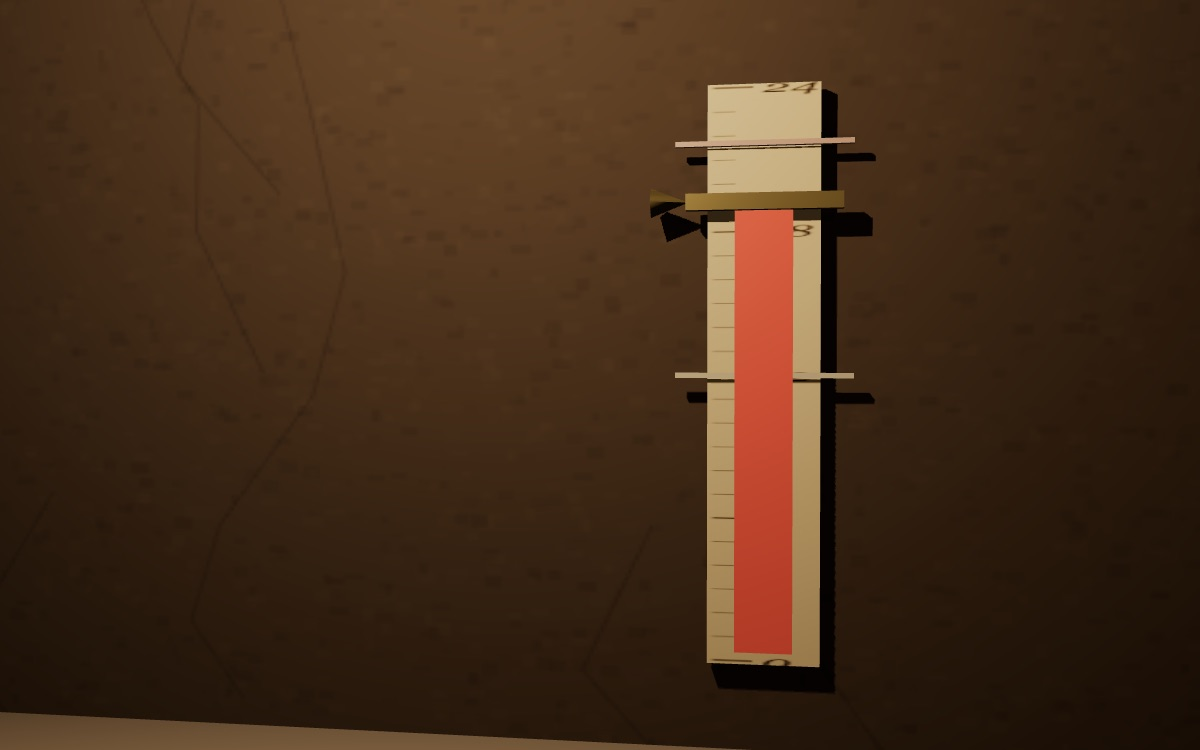
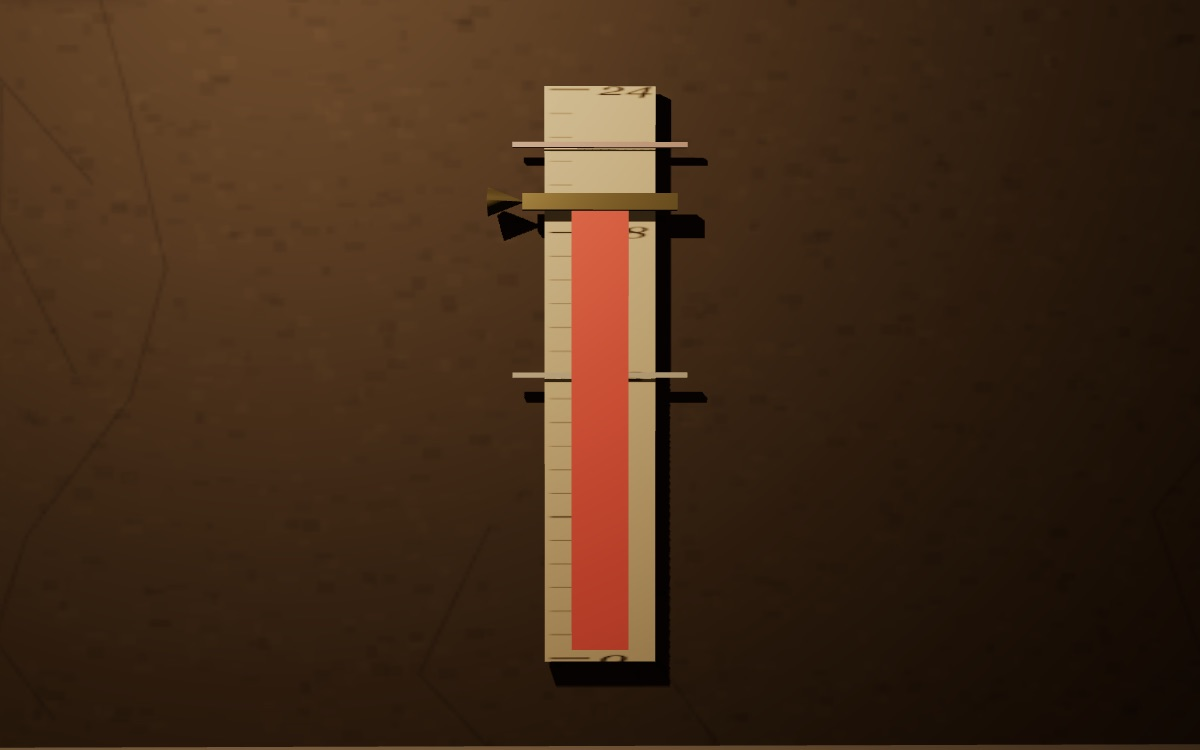
Glossaire : journee-de-travail réécrite selon la charte, direction artistique « la cloche et l'horloge »

diff --git a/glossaire/mondes/journee-de-travail/essai.html b/glossaire/mondes/journee-de-travail/essai.html
@@ -1,48 +1,93 @@
-<!-- L'ESSAI — le corps de /glossaire/journee-de-travail.
-     data-s="3" = Troisième section de Roy (ch. VII–XI), qui contient le
-     chapitre X, « La journée de travail ». -->
+<!-- L'ESSAI : le corps de /glossaire/journee-de-travail.
+     Réécrit en octobre 2026 selon glossaire/mondes/CHARTE.md.
+     data-s="3" = troisième section de Roy (ch. VII à XI), qui contient le
+     chapitre X ; data-s="4" = quatrième section (ch. XII à XV), pour la
+     phrase du chapitre XV sur l'intensification. Les citations sont
+     relevées dans le texte que la liseuse sert, et choisies pour ne pas
+     redoubler celles de /oeuvres/capital-1/chapitre-10 : la page de
+     chapitre porte le texte et sa construction, celle-ci le concept. -->
 
 <section class="nt-sec" data-etape="grandeur" id="grandeur">
-<h2>Une grandeur que rien ne fixe</h2>
-<p>Le chapitre X s'ouvre sur une constatation qui paraît anodine et qui va porter tout le chapitre&nbsp;: la journée de travail est une grandeur variable. Le contrat qui l'ouvre ne la fixe pas. Le capitaliste a acheté la <a href="/glossaire/force-de-travail">force de travail</a> à sa valeur journalière, et il a donc le droit de la faire travailler un jour&nbsp;; mais combien d'heures fait un jour&nbsp;? Rien dans l'échange ne le dit.</p>
-<p>Marx pose alors les deux bornes entre lesquelles cette grandeur peut se déplacer. La première est physique&nbsp;: il faut au travailleur le temps de dormir, de manger, de se laver, de se vêtir — un homme n'est pas disponible vingt-quatre heures. La seconde n'est pas de cette nature&nbsp;: <q data-s="3" data-q="La prolongation de la journée de travail rencontre des limites morales">la prolongation de la journée de travail rencontre des limites morales</q>, car <q data-s="3" data-q="Il faut au travailleur du temps pour satisfaire ses besoins intellectuels et sociaux">il faut au travailleur du temps pour satisfaire ses besoins intellectuels et sociaux</q>, dont le nombre et le caractère dépendent de l'état général de la civilisation.</p>
-<p>Il faut peser la conséquence, car elle commande tout le chapitre&nbsp;: ces bornes existent, mais elles ne fixent rien. <q data-s="3" data-q="Mais ces limites sont par elles-mêmes très élastiques et laissent la plus grande latitude">Mais ces limites sont par elles-mêmes très élastiques et laissent la plus grande latitude</q> — et Marx énumère aussitôt des journées de dix, douze, quatorze, seize et dix-huit heures. Le concept est donc celui d'une grandeur que l'économie ne détermine pas, et dont il faut chercher ailleurs ce qui la détermine.</p>
+<h2>Qu'est-ce qui fixe la longueur d'une journée de travail&nbsp;?</h2>
+<p class="nt-lead">Rien, dans l'échange. Une partie de la journée est fixée, celle où l'ouvrier reproduit la valeur de ses subsistances&nbsp;; la journée entière ne l'est pas.</p>
+<p>Le chapitre X part de ce que les chapitres précédents ont établi. Le capitaliste achète la <a href="/glossaire/force-de-travail">force de travail</a>, c'est-à-dire la capacité de travailler d'un homme, et il la paie à sa valeur. Cette valeur se mesure au temps qu'il faut pour produire ce que l'ouvrier consomme en un jour. Si ses subsistances coûtent six heures de travail, il doit travailler six heures pour en rendre l'équivalent&nbsp;: c'est le <a href="/glossaire/travail-necessaire">travail nécessaire</a>. Ce qu'il fait au-delà est du <a href="/glossaire/surtravail">surtravail</a>, que le capitaliste n'a pas payé. La première grandeur est donnée. La seconde dépend de l'heure à laquelle on s'arrête, et Marx résume la situation en une phrase sèche&nbsp;: <q data-s="3" data-q="La journée de travail est donc déterminable ; mais, par elle-même, elle est indéterminée">la journée de travail est donc déterminable&nbsp;; mais, par elle-même, elle est indéterminée</q>.</p>
+
+<div class="nt-ex">
+<p class="nt-ex-t">Un exemple</p>
+<p>Marx trace trois journées sur le même patron. Le travail nécessaire y vaut toujours six heures, et on le prolonge d'une heure, de trois, puis de six. On obtient des journées de sept, de neuf et de douze heures, et des taux de plus-value de 16&nbsp;2/3, de 50 et de 100&nbsp;%.</p>
+<p>Il retourne ensuite le calcul. Un taux de 100&nbsp;% dit seulement que le travail nécessaire et le surtravail sont égaux&nbsp;: il convient à une journée de huit heures comme à une journée de douze. Connaître le taux de l'exploitation ne donne donc pas la longueur du jour. Il faut la chercher ailleurs.</p>
+</div>
+
+<p>La journée a pourtant des bornes. Sa limite basse ne peut pas être atteinte, puisque le capital n'emploie personne pour le seul travail nécessaire. Sa limite haute est double. Elle est physique, d'abord&nbsp;: un homme doit dormir, manger, se vêtir. Elle est aussi sociale, car <q data-s="3" data-q="La prolongation de la journée de travail rencontre des limites morales">la prolongation de la journée de travail rencontre des limites morales</q>&nbsp;: <q data-s="3" data-q="Il faut au travailleur du temps pour satisfaire ses besoins intellectuels et sociaux">il faut au travailleur du temps pour satisfaire ses besoins intellectuels et sociaux</q>, dont l'étendue dépend de l'état de la civilisation. Ces bornes existent, et elles ne fixent presque rien&nbsp;: <q data-s="3" data-q="Mais ces limites sont par elles-mêmes très élastiques et laissent la plus grande latitude">ces limites sont par elles-mêmes très élastiques et laissent la plus grande latitude</q>. Marx relève autour de lui des journées de dix, douze, quatorze, seize et dix-huit heures.</p>
+<p>D'où la question qui ouvre le chapitre, et que le contrat ne règle pas&nbsp;: <q data-s="3" data-q="Mais qu’est‑ce qu’un jour de travail">mais qu’est-ce qu’un jour de travail</q>&nbsp;? Le capitaliste a payé la force de travail pour un jour. Il a acquis le droit de la faire travailler un jour, et l'on sait seulement que ce jour est plus court que les vingt-quatre heures du jour naturel. De combien, l'économie ne le dit pas.</p>
 </section>
 
 <section class="nt-sec" data-etape="antinomie" id="antinomie">
-<h2>La distinction qui fait le concept&nbsp;: deux droits, également fondés</h2>
-<p>Ici se joue le tour de force du chapitre, et il faut le suivre lentement parce qu'on le simplifie toujours. Le capitaliste, ayant acheté une marchandise, invoque son droit d'acheteur&nbsp;: il veut en tirer le plus grand usage possible, et prolonger la journée. Le travailleur, ayant vendu une marchandise, invoque son droit de vendeur&nbsp;: il veut que la consommation de sa force n'en détruise pas la source, et réclame une durée normale. Aucun des deux ne triche&nbsp;; aucun des deux n'a tort.</p>
-<blockquote data-s="3" data-q="Il y a donc ici une antinomie, droit contre droit, tous deux portent le sceau de la loi qui règle l’échange des marchandises"><p>Il y a donc ici une antinomie, droit contre droit, tous deux portent le sceau de la loi qui règle l’échange des marchandises. <q data-s="3" data-q="Entre deux droits égaux qui décide">Entre deux droits égaux qui décide</q>&nbsp;? La Force.</p></blockquote>
-<p>La portée de cette phrase est considérable, et elle est souvent affaiblie par la citation même qui l'isole. Marx ne dit pas que le droit serait une illusion ni que les contrats seraient truqués&nbsp;: il dit que la loi de l'échange, appliquée conséquemment, produit deux prétentions également légitimes et n'a aucun moyen de les départager. La force n'intervient donc pas contre le droit&nbsp;; elle intervient là où le droit, en toute rigueur, ne conclut pas.</p>
-<p>On tient là ce qui distingue ce chapitre de tout le reste du Livre&nbsp;I. Les autres établissent des lois — de la valeur, de la <a href="/glossaire/plus-value">plus-value</a>, de l'accumulation. Celui-ci établit qu'une grandeur décisive n'est réglée par aucune loi économique, et qu'elle est le produit d'un rapport de forces dont l'histoire seule rend compte.</p>
+<h2>Pourquoi l'échange ne peut-il pas trancher&nbsp;?</h2>
+<p class="nt-lead">Parce que l'acheteur et le vendeur de la force de travail invoquent chacun un droit que la loi de l'échange fonde également. Cette loi appuie les deux prétentions et n'a aucun moyen de les départager.</p>
+<p>Le capitaliste se conduit en acheteur ordinaire. Il a payé une marchandise et veut en tirer le plus grand usage possible, ce qui veut dire, ici, prolonger la journée autant qu'il le peut. Rien dans ce raisonnement ne déroge aux règles du marché. Marx lui oppose alors la voix du vendeur, et il la fait parler le même langage. L'ouvrier ne demande aucune faveur. Il rappelle qu'il doit pouvoir revendre demain, en aussi bon état, la marchandise qu'il a vendue aujourd'hui, et que l'acheteur qui l'épuise la vole&nbsp;: <q data-s="3" data-q="J’exige la journée de travail normal, parce que je veux la valeur de ma marchandise, comme tout autre vendeur">j’exige la journée de travail normal, parce que je veux la valeur de ma marchandise, comme tout autre vendeur</q>.</p>
+
+<div class="nt-ex">
+<p class="nt-ex-t">Le calcul du vendeur</p>
+<p>L'ouvrier de Marx fait ses comptes. Supposons qu'avec un travail raisonnable, sa force dure trente ans. Le salaire d'un jour paie alors une part sur trente fois trois cent soixante-cinq, soit 1/10&nbsp;950 de la valeur totale de cette force.</p>
+<p>Si l'acheteur l'use en dix ans, il continue de payer 1/10&nbsp;950 par jour, alors qu'il en consomme 1/3&nbsp;650. Il paie donc un tiers de ce qu'il prend chaque jour, et garde les deux autres. L'ouvrier le dit en une ligne&nbsp;: <q data-s="3" data-q="Tu payes une force de travail d’un jour quand tu en uses une de trois">tu payes une force de travail d’un jour quand tu en uses une de trois</q>. Son argument n'a rien de sentimental&nbsp;: il applique au contrat la règle que l'acheteur invoque.</p>
+</div>
+
+<p>Les ouvriers n'ont pas attendu Marx pour poser la question dans ces termes. En 1835, les charpentiers de Philadelphie font peindre sur leur bannière un compagnon qui montre à un autre l'horloge du clocher, et, sur un coffre, l'inscription « 6 to 6 »&nbsp;: de six heures à six heures, et pas au-delà. C'est la journée normale réclamée par ceux qui vendent leur force.</p>
+<div data-planche="horloge"></div>
+<p>Les deux droits se font face, et Marx en tire la phrase qui donne au chapitre sa portée&nbsp;:</p>
+<blockquote data-s="3" data-q="Il y a donc ici une antinomie, droit contre droit, tous deux portent le sceau de la loi qui règle l’échange des marchandises"><p>Il y a donc ici une antinomie, droit contre droit, tous deux portent le sceau de la loi qui règle l’échange des marchandises. Entre deux droits égaux qui décide&nbsp;? La Force.</p></blockquote>
+<p>Une antinomie est un conflit entre deux lois, ou deux thèses, également fondées. Personne ici ne triche, et personne n'a tort au regard de la loi du marché. Cette loi, suivie jusqu'au bout, produit deux prétentions légitimes et reste muette sur celle qui doit l'emporter. La force vient occuper la place que le droit laisse vide.</p>
 </section>
 
 <section class="nt-sec" data-etape="soif" id="soif">
-<h2>Le mécanisme&nbsp;: pourquoi le capital pousse toujours</h2>
-<p>Reste à comprendre pourquoi la pression s'exerce toujours dans le même sens. La réponse ne tient pas à la cupidité des personnes, et Marx prend soin de le dire&nbsp;: le capitaliste n'est ici que du capital personnifié, et ce qu'il poursuit, il le poursuit sous peine de disparaître. La formule qu'il emploie pour le dire est la plus célèbre du chapitre&nbsp;:</p>
+<h2>Pourquoi le capital pousse-t-il toujours vers une journée plus longue&nbsp;?</h2>
+<p class="nt-lead">Parce qu'il n'a pas de borne interne. Le capital ne se conserve qu'en s'accroissant, et il ne s'accroît qu'en absorbant du travail vivant&nbsp;: toute limite lui vient du dehors.</p>
+<p>Marx met d'emblée les personnes hors de cause. Il ne reproche pas au capitaliste sa cupidité&nbsp;: <q data-s="3" data-q="En tant que capitaliste, il n’est que capital personnifié">en tant que capitaliste, il n’est que capital personnifié</q>. Ce qu'il poursuit, c'est le mouvement même du capital, qui tend à produire le plus de plus-value possible. L'image qu'il emploie pour le dire est restée la plus citée du chapitre&nbsp;:</p>
 <blockquote data-s="3" data-q="Le capital est du travail mort, qui, semblable au vampire, ne s’anime qu’en suçant le travail vivant"><p>Le capital est du travail mort, qui, semblable au vampire, ne s’anime qu’en suçant le travail vivant, et sa vie est d’autant plus allègre qu’il en pompe davantage.</p></blockquote>
-<p>L'image est spectaculaire, et c'est peut-être ce qui lui nuit&nbsp;: on y voit une invective là où il y a une définition. Le capital est de la valeur qui ne se conserve qu'en s'accroissant, et il ne s'accroît que par du travail vivant&nbsp;; il n'a donc aucune raison interne de s'arrêter, et toute borne lui vient du dehors. C'est pourquoi la prolongation ne rencontre pas seulement les limites morales&nbsp;: <q data-s="3" data-q="le capital dépasse non seulement les limites morales, mais encore la limite physiologique extrême de la journée de travail">le capital dépasse non seulement les limites morales, mais encore la limite physiologique extrême de la journée de travail</q>.</p>
-<p>Marx détaille alors ce que cette usurpation prend, et l'énumération vaut mieux qu'un commentaire&nbsp;: le temps de la croissance et de l'entretien du corps, celui des repas incorporés au procès de production, et <q data-s="3" data-q="Il vole le temps qui devrait être employé à respirer l’air libre et à jouir de la lumière du soleil">le temps qui devrait être employé à respirer l'air libre et à jouir de la lumière du soleil</q>. Les rapports d'inspecteurs qui occupent une grande part du chapitre ne sont pas des annexes documentaires&nbsp;: ils sont la preuve que la limite physiologique elle-même a été franchie, et que rien dans le rapport ne l'interdisait.</p>
+<p>L'image définit un rapport, celui du <a href="/glossaire/travail-mort-et-vivant">travail mort au travail vivant</a>. Les machines, les bâtiments, les matières premières sont du travail passé, déjà accompli. Ils ne gardent leur valeur et ne l'augmentent qu'au contact d'un travail présent, et chaque heure de plus en ajoute. Un tel mouvement n'a aucune raison de s'arrêter de lui-même.</p>
+<p>C'est pourquoi la prolongation ne s'arrête pas aux bornes morales&nbsp;: <q data-s="3" data-q="le capital dépasse non seulement les limites morales, mais encore la limite physiologique extrême de la journée de travail">le capital dépasse non seulement les limites morales, mais encore la limite physiologique extrême de la journée de travail</q>. Marx dresse l'inventaire de ce qu'il prend. Il prend le temps de la croissance et de l'entretien du corps. <q data-s="3" data-q="Il vole le temps qui devrait être employé à respirer l’air libre et à jouir de la lumière du soleil">Il vole le temps qui devrait être employé à respirer l’air libre et à jouir de la lumière du soleil</q>. Il rogne les repas et les fait prendre au travail, si bien que l'ouvrier <q data-s="3" data-q="se voit fournir sa nourriture comme on fournit du charbon à la chaudière, de l’huile et du suif à la machine">se voit fournir sa nourriture comme on fournit du charbon à la chaudière, de l’huile et du suif à la machine</q>. Il réduit enfin le sommeil au minimum sans lequel le corps ne repartirait pas.</p>
+<p>Le bilan se lit sur la durée d'une vie. La production capitaliste, écrit Marx, <q data-s="3" data-q="Elle prolonge la période productive du travailleur pendant un certain laps de temps en abrégeant la durée de sa vie">prolonge la période productive du travailleur pendant un certain laps de temps en abrégeant la durée de sa vie</q>, comme un cultivateur pressé tire plus d'une terre en l'épuisant. On retrouve le calcul du vendeur, vu de l'autre côté&nbsp;: ce que l'acheteur gagne en heures, l'ouvrier le perd en années.</p>
 </section>
 
 <section class="nt-sec" data-etape="loi" id="loi">
-<h2>Ce que le concept ouvre&nbsp;: la loi comme résultat</h2>
-<p>De l'antinomie suit une conséquence que Marx tire explicitement, et qui donne au chapitre sa forme historique&nbsp;: si la force décide, alors la longueur de la journée est le résultat d'une lutte, et son histoire est celle de cette lutte. Le chapitre cesse alors d'être une déduction pour devenir un récit — celui des statuts anglais, des enquêtes, des fraudes de quelques minutes grignotées aux repas, et des lois de fabrique arrachées les unes après les autres.</p>
-<p>C'est ici que la journée de travail se distingue de tout ce que l'économie politique pouvait penser. Une limitation légale n'y apparaît pas comme une entrave à des lois naturelles, ni comme une faveur accordée par un législateur bienveillant&nbsp;: elle apparaît comme la forme que prend, dans le droit, un rapport de forces déjà établi ailleurs. La loi ne précède pas le mouvement, elle l'enregistre.</p>
-<p>Nous ajoutons que ce chapitre est le seul du Livre&nbsp;I où les travailleurs cessent d'être ceux à qui il arrive quelque chose pour devenir ceux qui font arriver quelque chose. Cela n'est pas un ornement rhétorique&nbsp;: c'est la conséquence directe de l'antinomie, puisqu'une question que le droit ne tranche pas ne peut être tranchée que par ceux qu'elle concerne.</p>
+<h2>Qui fixe finalement la limite de la journée&nbsp;?</h2>
+<p class="nt-lead">Une lutte entre deux classes, dont la loi enregistre le résultat. La journée normale sort d'un rapport de forces, et elle en garde la marque.</p>
+<p>Si la force décide entre deux droits égaux, l'histoire de la journée de travail est l'histoire de cette force. Marx le dit aussitôt après l'antinomie&nbsp;: la réglementation de la journée se présente <q data-s="3" data-q="comme une lutte séculaire pour les limites de la journée de travail">comme une lutte séculaire pour les limites de la journée de travail</q>, entre la classe capitaliste et la classe ouvrière. Le chapitre change alors de méthode. Une grandeur que la force décide ne se déduit pas&nbsp;; on ne peut que constater ce qui l'a fixée. D'où les rapports des inspecteurs de fabrique et le récit des <a href="/glossaire/legislation-de-fabrique">lois de fabrique</a> anglaises de 1833 à 1864, que <a href="/oeuvres/capital-1/chapitre-10">la page du chapitre X</a> parcourt partie par partie.</p>
+<p>La loi apparaît dans ce récit sous un jour inattendu pour l'économie politique. Elle vient après le mouvement et le consigne. La limitation légale de la journée est la forme que prend, dans le droit, un rapport de forces qui s'est d'abord établi hors du droit, entre les classes.</p>
+<p>La fin du chapitre revient sur le contrat du début et en tire la leçon. L'ouvrier s'était présenté au marché comme un vendeur libre en face d'un acheteur libre. L'affaire conclue, il découvre <q data-s="3" data-q="que le temps pour lequel il lui est permis de vendre sa force de travail est le temps pour lequel il est forcé de la vendre">que le temps pour lequel il lui est permis de vendre sa force de travail est le temps pour lequel il est forcé de la vendre</q>. Seul, il ne peut rien contre cette contrainte. Il faut que les ouvriers, ensemble, <q data-s="3" data-q="dressent une barrière infranchissable, un obstacle social">dressent une barrière infranchissable, un obstacle social</q>, qui les empêche de se vendre au-delà. La barre de fer de la scène, en bas de page, vient de cette phrase.</p>
+<p>Marx note que le mouvement passe l'Atlantique dans les mêmes années. En août 1866, un congrès ouvrier réuni à Baltimore réclame la journée de huit heures dans tous les États de l'Union. Au début de septembre, le congrès de l'Association internationale des travailleurs, à Genève, adopte une résolution que Marx reproduit&nbsp;: <q data-s="3" data-q="Nous proposons 8 heures pour limite légale de la journée de travail">nous proposons 8 heures pour limite légale de la journée de travail</q>. Nous retenons de ce chapitre que les travailleurs y paraissent comme ceux qui fixent une grandeur du système, et plus seulement comme ceux qui la subissent. Cela découle de l'antinomie&nbsp;: une question que le droit ne tranche pas revient à ceux qu'elle concerne.</p>
 </section>
 
 <section class="nt-sec" data-etape="apres" id="apres">
-<h2>Ce que la limitation change, et ce qu'elle ne change pas</h2>
-<p>Il serait pourtant faux de lire le chapitre comme s'il s'achevait sur une victoire. La limitation de la journée ferme une voie et en ouvre une autre, et c'est la raison pour laquelle le chapitre&nbsp;XII vient immédiatement après. Si l'on ne peut plus allonger la journée, il reste à raccourcir la portion qui rembourse la force de travail, en abaissant la valeur des subsistances par la hausse de la productivité&nbsp;: c'est le passage de la plus-value absolue à la <a href="/glossaire/plus-value">plus-value relative</a>.</p>
-<p>La conséquence mérite d'être formulée sans détour, car elle contrarie l'idée d'un progrès linéaire&nbsp;: la journée de dix heures n'a pas diminué l'exploitation, elle en a changé la méthode. Le taux de <a href="/glossaire/forme-salaire">plus-value</a> peut fort bien s'élever pendant que la journée raccourcit, si le travail nécessaire diminue plus vite qu'elle. Marx le dit ailleurs sans ambiguïté, et c'est ce qui empêche de faire de la limitation légale la solution du problème.</p>
-<p>Reste que la limitation n'est pas rien, et le chapitre l'établit à sa manière&nbsp;: elle prouve qu'une grandeur que l'économie disait naturelle est modifiable, et que le rapport de forces peut se déplacer. C'est un résultat théorique autant que pratique.</p>
+<h2>La limitation de la journée met-elle fin à l'exploitation&nbsp;?</h2>
+<p class="nt-lead">Non. Elle ferme une voie et en ouvre une autre&nbsp;: quand la journée ne peut plus s'allonger, le capital cherche à tirer davantage du même temps.</p>
+<p>Tant que la journée s'allonge, le surtravail grandit par le bout&nbsp;: c'est ce que Marx appelle la <a href="/glossaire/plus-value-absolue">plus-value absolue</a>. Une journée bornée l'arrête. Le capital se tourne alors vers l'autre partie de la journée, celle qui rembourse le salaire. Si la productivité du travail augmente dans les branches qui produisent les subsistances, celles-ci coûtent moins d'heures, et le travail nécessaire raccourcit. Le surtravail grandit sans que la journée change&nbsp;: c'est la <a href="/glossaire/plus-value-relative">plus-value relative</a>, que le chapitre XII ouvre aussitôt après.</p>
+
+<div class="nt-ex">
+<p class="nt-ex-t">Un calcul</p>
+<p>Prenons une journée de douze heures, dont six de travail nécessaire&nbsp;: le taux de la plus-value est de 100&nbsp;%. Une loi ramène la journée à dix heures. Si, dans le même temps, la productivité réduit le travail nécessaire à quatre heures, il reste six heures de surtravail pour quatre de travail nécessaire, soit un taux de 150&nbsp;%.</p>
+<p>La journée a raccourci de deux heures, et l'exploitation a augmenté. Les chiffres sont choisis pour le calcul&nbsp;; le mécanisme est celui que décrit Marx.</p>
+</div>
+
+<p>Une seconde voie s'ouvre en même temps, et Marx la décrit au chapitre XV, à propos des machines. Le raccourcissement légal de la journée pousse le fabricant à accélérer les machines, et contraint l'ouvrier <q data-s="4" data-q="à resserrer les pores de sa journée, et à condenser ainsi le travail à un degré qu’il ne saurait atteindre sans ce raccourcissement">à resserrer les pores de sa journée, et à condenser ainsi le travail à un degré qu’il ne saurait atteindre sans ce raccourcissement</q>. Les pores sont ces moments où le travail se relâche&nbsp;: un changement d'outil, une attente, un geste plus lent. L'heure contient désormais plus de travail. On mesure le travail selon sa durée, et aussi selon son intensité.</p>
+<p>La limitation garde pourtant une portée que rien ne lui retire. Elle prouve qu'une grandeur que l'économie présentait comme réglée par la nature des choses peut être déplacée, et qu'elle l'a été. Le capital s'y adapte, et il faut, pour le suivre, d'autres concepts&nbsp;: c'est le programme de la quatrième section du livre.</p>
 </section>
 
 <section class="nt-sec" data-etape="lectures" id="lectures">
-<h2>Lectures, et contresens</h2>
-<p>Le premier contresens fait du vampire une insulte. Il est une définition&nbsp;: le capital est du travail passé qui ne se conserve qu'en absorbant du travail présent, et l'image dit exactement le rapport du <a href="/glossaire/objectivation">travail mort</a> au travail vivant. La lire comme un mouvement d'humeur revient à manquer que Marx explique un comportement au lieu de le condamner.</p>
-<p>Le deuxième contresens consiste à tirer de l'antinomie que Marx tiendrait le droit pour un leurre. Le texte dit le contraire&nbsp;: les deux prétentions portent le sceau de la même loi, et c'est parce qu'elles sont également fondées que la force décide. Il n'y a pas ici de dénonciation du droit bourgeois comme apparence, mais la mise au jour d'un point où il est réellement muet.</p>
-<p>Le troisième contresens est de croire le chapitre daté parce que les journées de dix-huit heures ont disparu des pays où il fut écrit. Ce qui est daté, ce sont les chiffres&nbsp;; ce qui ne l'est pas, c'est la structure&nbsp;: une grandeur laissée indéterminée par le contrat, deux droits également fondés, et une issue qui dépend d'un rapport de forces. On peut la reconnaître partout où la disponibilité du temps est en jeu — astreintes, gardes, connexion permanente — sans avoir à forcer l'analogie.</p>
-<p>Reste un point de méthode, propre à ce chapitre&nbsp;: il est l'un des plus longs du livre et l'un des plus documentés, et cela n'est pas un accident de composition. Une thèse qui affirme que la force décide ne peut pas se démontrer par déduction&nbsp;; elle demande des faits, et Marx en produit des centaines. Avec les chapitres de l'accumulation primitive, c'est l'un des endroits du Livre&nbsp;I où la preuve est d'espèce historique.</p>
+<h2>Comment lire ce concept, et quels contresens éviter&nbsp;?</h2>
+<p class="nt-lead">Le chapitre se lit comme une démonstration qui doit passer par l'histoire, puisque ce qu'il établit ne se déduit pas. Trois contresens courants se corrigent en relisant le texte.</p>
+<p>Le chapitre X compte près de vingt-cinq mille mots dans la traduction de Roy, et les rapports d'inspecteurs en occupent la plus grande part. On les prend souvent pour des annexes documentaires. Ils sont la preuve&nbsp;: une thèse qui dit que la force décide ne se démontre que par des faits, et Marx en accumule des centaines. Dans l'original allemand, et dans la traduction dirigée par Jean-Pierre Lefebvre, le même texte forme le chapitre 8&nbsp;; le lecteur qui cherche dans une autre édition doit le savoir.</p>
+<div class="nt-cs">
+<p><span class="nt-cs-k">On lit souvent</span> Le vampire serait une insulte, un mouvement d'humeur contre les patrons.</p>
+<p><span class="nt-cs-k">Ce que dit le texte</span> L'image définit le capital comme du travail passé qui ne vit qu'en absorbant du travail présent. Marx explique un comportement par une structure, et il prend soin de dire que le capitaliste n'est ici que du capital personnifié.</p>
+</div>
+<div class="nt-cs">
+<p><span class="nt-cs-k">On lit souvent</span> Avec l'antinomie, Marx tiendrait le droit pour un leurre, et le contrat de travail pour une tromperie.</p>
+<p><span class="nt-cs-k">Ce que dit le texte</span> Les deux prétentions portent le sceau de la même loi, et c'est parce qu'elles sont également fondées que la force décide. Marx montre un point où le droit de l'échange est muet&nbsp;; il ne le déclare pas faux.</p>
+</div>
+<div class="nt-cs">
+<p><span class="nt-cs-k">On lit souvent</span> Le chapitre serait daté, puisque les journées de dix-huit heures ont disparu des pays où il a été écrit.</p>
+<p><span class="nt-cs-k">Ce que dit le texte</span> Les chiffres sont datés, la structure ne l'est pas&nbsp;: une grandeur que le contrat laisse indéterminée, deux droits également fondés, et une issue qui dépend d'un rapport de forces. On la retrouve partout où la disponibilité du temps se négocie, des heures supplémentaires aux astreintes.</p>
+</div>
 </section>

diff --git a/glossaire/mondes/journee-de-travail/monde.js b/glossaire/mondes/journee-de-travail/monde.js
@@ -158,7 +158,13 @@ window.LM_MONDE = function (canvas) {
     var dist = camera.position.distanceTo(camA);
     var fwd = new THREE.Vector3().subVectors(camA, camera.position).normalize();
     var right = new THREE.Vector3().crossVectors(fwd, V3(0, 1, 0)).normalize();
-    aim.copy(camA).addScaledVector(right, -Math.min(0.26 * dist, 0.62));
+    /* Octobre 2026 : la scène est une figure 16/10 en bas de page, que rien
+       ne recouvre. Le décalage à gauche (qui laissait la place à la colonne
+       de texte de l'architecture « plein ») rejetait la toise au bord droit :
+       il ne joue plus que sur un canevas d'au moins 1100 px qui ne serait
+       pas une figure. */
+    var large = canvas.clientWidth >= 1100 && !(canvas.closest && canvas.closest('.nt-fig'));
+    aim.copy(camA).addScaledVector(right, large ? -Math.min(0.26 * dist, 0.62) : 0);
     camera.lookAt(aim);
     render();
   }
